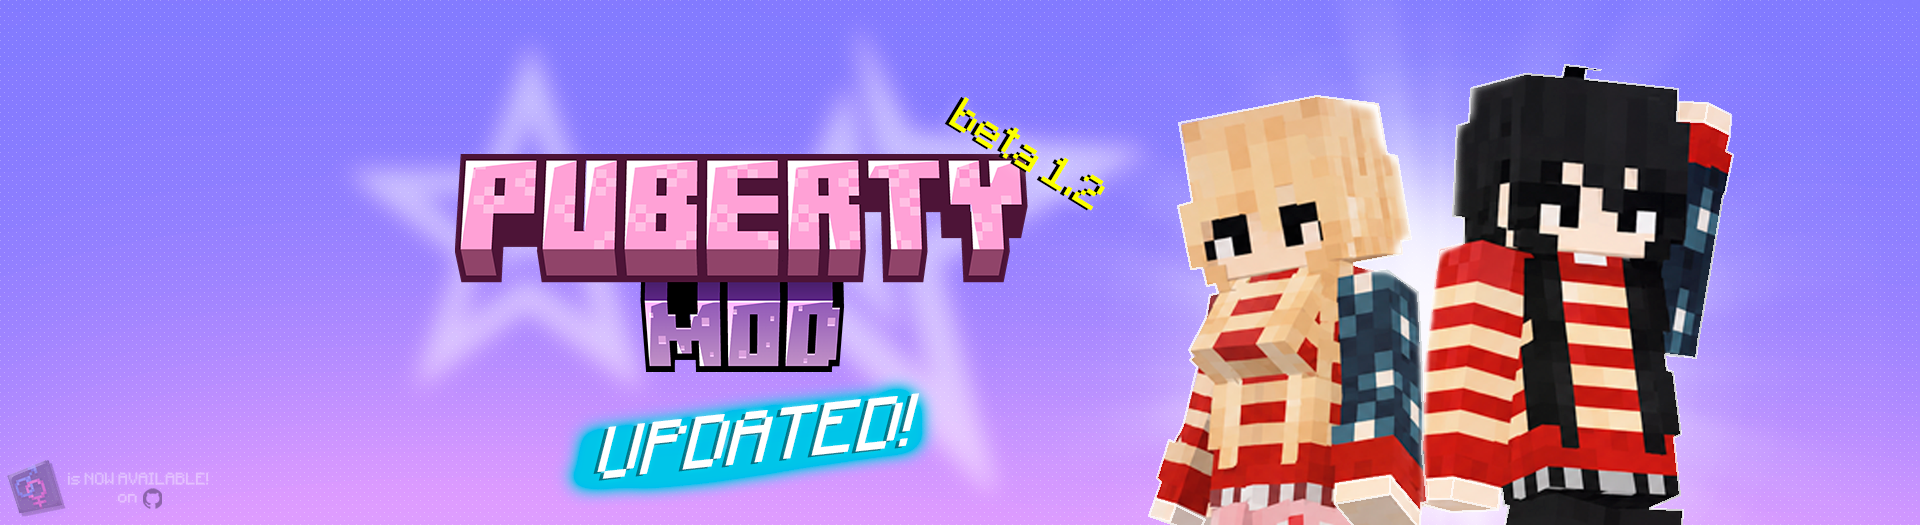
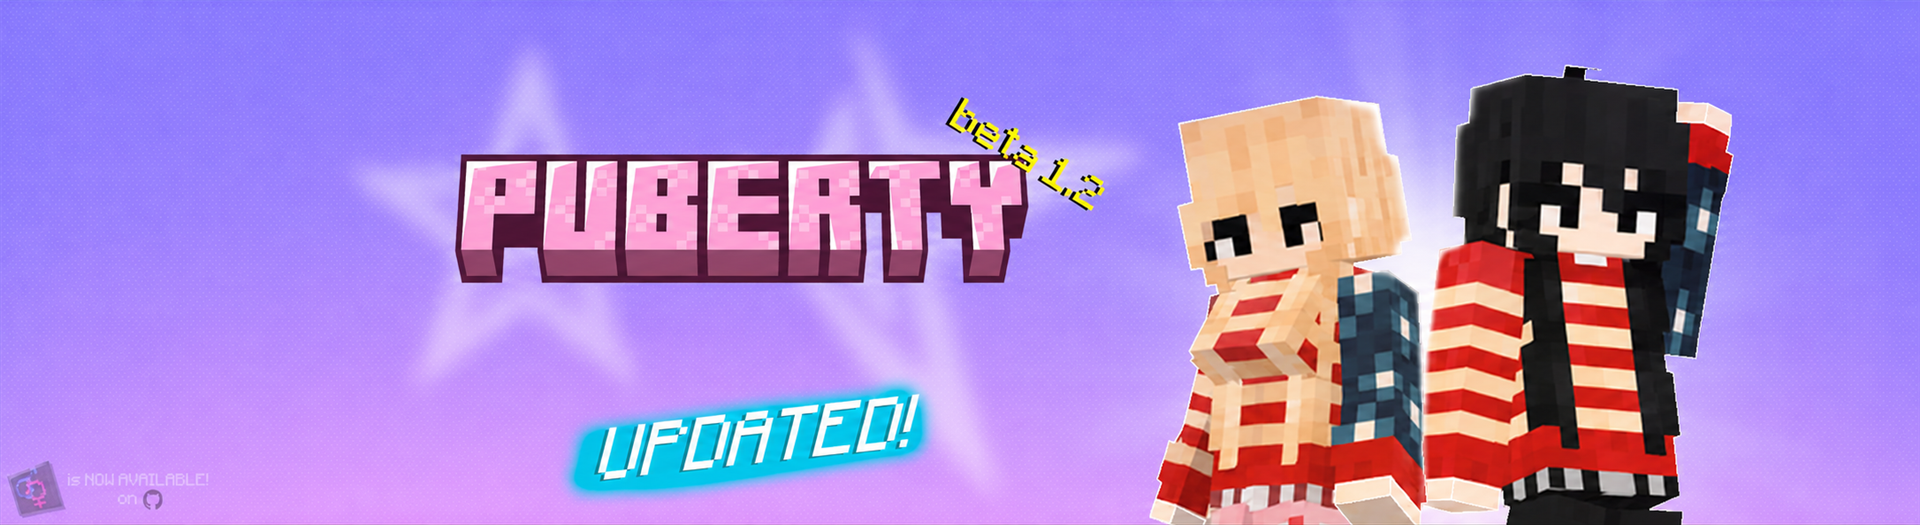
Rebrand beta 1.2 as Puberty

diff --git a/src/main/java/com/swakoza/pubertymod/main/CustomHurtSoundManager.java b/src/main/java/com/swakoza/pubertymod/main/CustomHurtSoundManager.java
@@ -133,7 +133,7 @@ public final class CustomHurtSoundManager {
                     ACTIVE_SOUNDS.remove(playerId, activeSound);
                 }
             }
-        }, "PubertyMod-CustomHurtSound");
+        }, "Puberty-CustomHurtSound");
         thread.setDaemon(true);
         thread.start();
         return true;

diff --git a/src/versions/26.1/java/com/swakoza/pubertymod/main/CustomHurtSoundManager.java b/src/versions/26.1/java/com/swakoza/pubertymod/main/CustomHurtSoundManager.java
@@ -127,7 +127,7 @@ public final class CustomHurtSoundManager {
                     ACTIVE_SOUNDS.remove(playerId, activeSound);
                 }
             }
-        }, "PubertyMod-CustomHurtSound");
+        }, "Puberty-CustomHurtSound");
         thread.setDaemon(true);
         thread.start();
         return true;

diff --git a/README.md b/README.md
@@ -1,7 +1,10 @@
-![Mod Banner](https://github.com/swakoza/PubertyMod/blob/main/src/main/resources/assets/swakozas_puberty_mod/banner.png?raw=true)
-# Puberty Mod
+![Puberty Banner](src/main/resources/assets/swakozas_puberty_mod/banner.png)
+# Puberty
 
 **Current version: 1.2 beta**
+
+The display name is **Puberty**. The Fabric ID, resource namespace and existing
+configuration paths remain unchanged so installed settings and integrations continue to work.
 
 This update adds configurable breast physics across supported Minecraft versions, improved player editing and previews, custom sound distance handling, and reusable presets for appearance, physics, and sounds.
 
@@ -12,7 +15,7 @@ You can also set custom damage sounds for players with the gender set to female 
 
 ## Default Controls
 
-G - Open Puberty Mod menu<br>
+G - Open Puberty menu<br>
 H - Opens the edit menu when you hover over a player 
 
 ## Minecraft 1.21.1
@@ -29,7 +32,7 @@ the hovered row in the player list when the search field is not focused.
 
 ## License
 
-Puberty-Mod is licensed under MIT, a free and open-source license. For more information, please see the [license file](https://github.com/swakoza/PubertyMod/blob/main/LICENSE).
+Puberty is licensed under MIT, a free and open-source license. For more information, please see the [license file](https://github.com/swakoza/PubertyMod/blob/main/LICENSE).
 
 ## Stored player settings
 
@@ -42,6 +45,10 @@ Both a single string and a list under `custom_hurt_sound` are readable.
 Loading player settings does not rewrite files. Saving retains unknown fields and
 writes through a temporary file; malformed originals are preserved and reported in the log.
 Run `verifyConfigurationStorage` to check persistence using temporary files.
+
+Use JDK 25 for builds (the 1.21 targets emit Java 21 bytecode).
+Build every supported target with `./gradlew buildAllVersions` or
+`gradlew.bat buildAllVersions` on Windows. GitHub Actions verifies the same seven targets.
 
 Versioned builds are available through `build copyVersionedJar -PtargetMinecraftVersion=<version>`.
 Release JARs omit Java debug tables while retaining reviewable bytecode and mod metadata.
